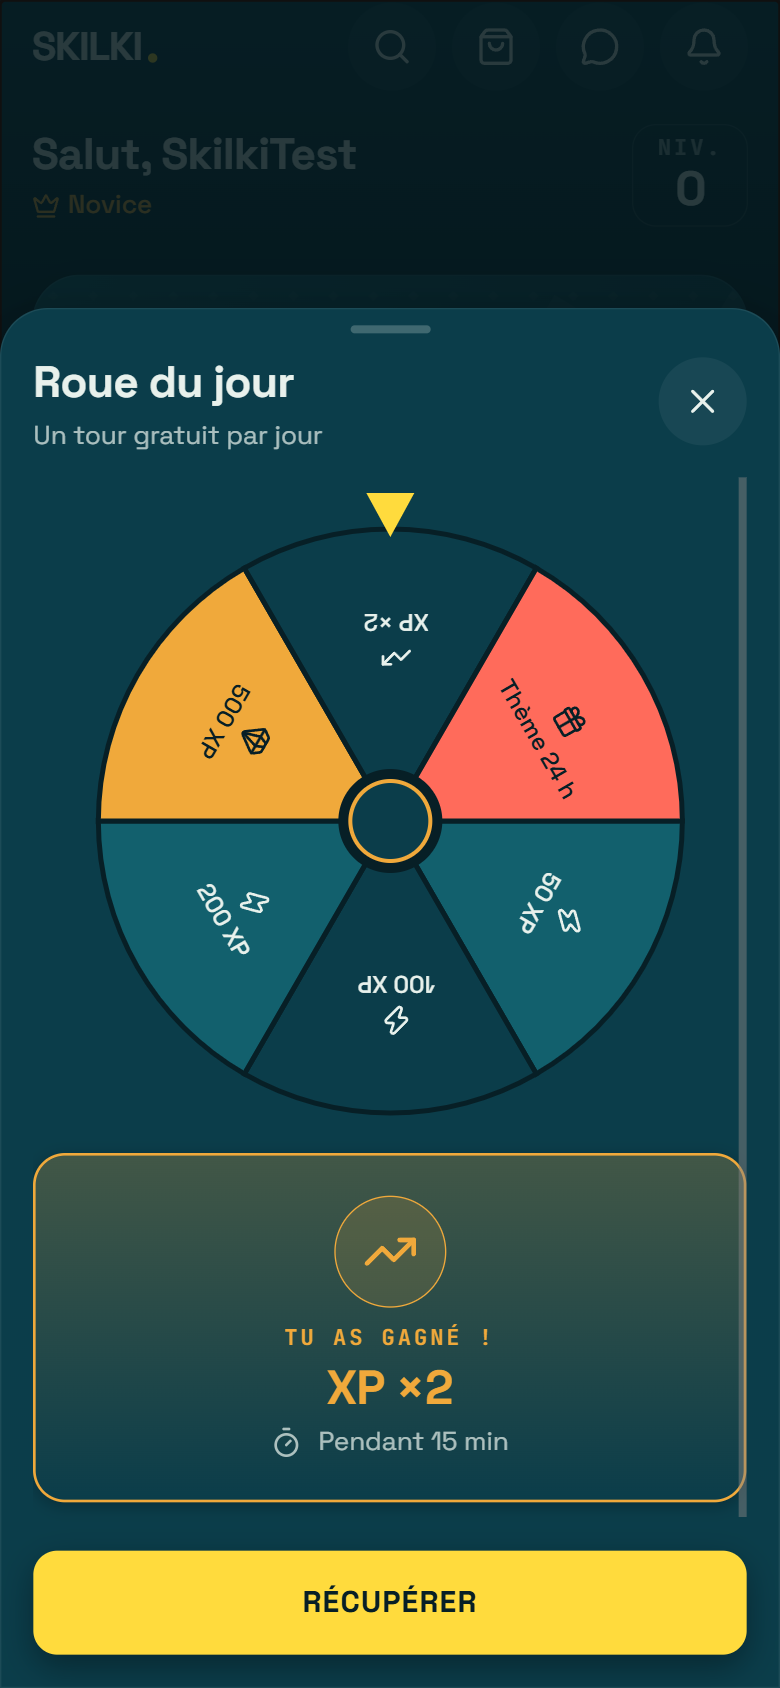
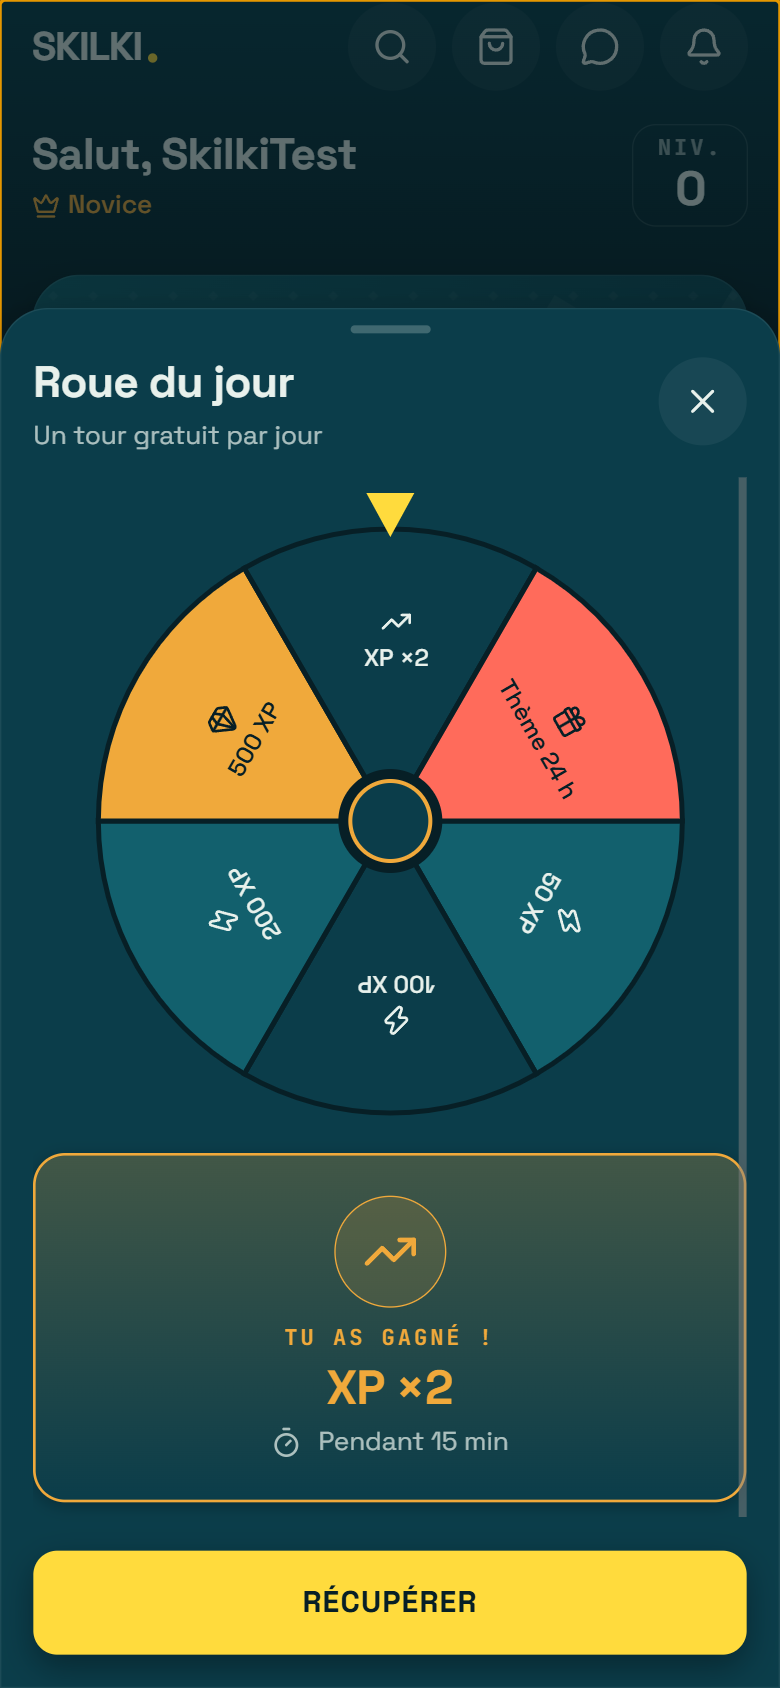
Lot E SKILKI : traductions des nouveaux textes, gain de la roue lisible
Les textes revus de la boutique et de la roue sont traduits dans les
9 autres langues. Le segment gagnant n'est plus tête en bas sous le pointeur.

diff --git a/frontend/utils/i18n.ts b/frontend/utils/i18n.ts
@@ -160,7 +160,7 @@ const translations: Translations = {
   'pilot.spin.spin': { fr: "Tourner la roue", en: "Spin the wheel", es: "Girar la ruleta", de: "Rad drehen", pt: "Girar a roleta", it: "Gira la ruota", ar: "أدر العجلة", ja: "回す", ko: "돌리기", zh: "转动转盘" },
   'pilot.spin.boost': { fr: "XP ×2", en: "XP ×2", es: "XP ×2", de: "XP ×2", pt: "XP ×2", it: "XP ×2", ar: "XP ×2", ja: "XP ×2", ko: "XP ×2", zh: "XP ×2" },
   'pilot.spin.theme': { fr: "Thème 24 h", en: "24h theme", es: "Tema 24 h", de: "Thema 24 Std.", pt: "Tema 24 h", it: "Tema 24 h", ar: "موضوع 24 س", ja: "テーマ24時間", ko: "테마 24시간", zh: "主题 24 小时" },
-  'pilot.spin.boost_minutes': { fr: "Pendant {n} min", en: "Boost active {n} min", es: "Boost activo {n} min", de: "Boost aktiv {n} Min.", pt: "Boost ativo {n} min", it: "Boost attivo {n} min", ar: "تعزيز نشط {n} د", ja: "ブースト {n}分", ko: "부스트 {n}분", zh: "加成 {n} 分钟" },
+  'pilot.spin.boost_minutes': { fr: "Pendant {n} min", en: "For {n} min", es: "Durante {n} min", de: "Für {n} Min.", pt: "Por {n} min", it: "Per {n} min", ar: "لمدة {n} د", ja: "{n}分間", ko: "{n}분 동안", zh: "持续 {n} 分钟" },
   'pilot.tournament.your_rank': { fr: "Ton rang", en: "Your rank", es: "Tu puesto", de: "Dein Rang", pt: "Sua posição", it: "Il tuo posto", ar: "ترتيبك", ja: "あなたの順位", ko: "내 순위", zh: "你的排名" },
   'pilot.tournament.duels': { fr: "{n}/{max} duels", en: "{n}/{max} duels", es: "{n}/{max} duelos", de: "{n}/{max} Duelle", pt: "{n}/{max} duelos", it: "{n}/{max} duelli", ar: "{n}/{max} مبارزات", ja: "{n}/{max} 対戦", ko: "{n}/{max} 대결", zh: "{n}/{max} 场对决" },
   'pilot.tournament.pts': { fr: "pts", en: "pts", es: "pts", de: "Pkt.", pt: "pts", it: "pt", ar: "نقطة", ja: "pt", ko: "점", zh: "分" },
@@ -176,20 +176,20 @@ const translations: Translations = {
   'pilot.spin.theme_won': { fr: "Thème offert 24 h", en: "Free theme for 24h", es: "Tema gratis 24 h", de: "Gratis-Thema 24 Std.", pt: "Tema grátis 24 h", it: "Tema gratis 24 h", ar: "موضوع مجاني 24 س", ja: "24時間無料テーマ", ko: "24시간 무료 테마", zh: "免费主题 24 小时" },
   'pilot.shop.coins_hint': { fr: "Les pièces débloquent des thèmes et des boosts.", en: "Coins unlock themes and boosts.", es: "Las monedas desbloquean temas y boosts.", de: "Münzen schalten Themen und Boosts frei.", pt: "As moedas desbloqueiam temas e boosts.", it: "Le monete sbloccano temi e boost.", ar: "العملات تفتح المواضيع والمعززات.", ja: "コインでテーマとブーストを解放できます。", ko: "코인으로 테마와 부스트를 열 수 있어요.", zh: "金币可解锁主题和加成。" },
   'pilot.shop.title': { fr: "Boutique", en: "Shop", es: "Tienda", de: "Shop", pt: "Loja", it: "Negozio", ar: "المتجر", ja: "ショップ", ko: "상점", zh: "商店" },
-  'pilot.shop.hero_title': { fr: "Progresse plus vite", en: "Boost your game", es: "Mejora tu juego", de: "Push dein Spiel", pt: "Turbine seu jogo", it: "Potenzia il tuo gioco", ar: "عزّز لعبك", ja: "プレイを強化", ko: "게임을 강화하세요", zh: "提升你的游戏" },
+  'pilot.shop.hero_title': { fr: "Progresse plus vite", en: "Level up faster", es: "Progresa más rápido", de: "Schneller vorankommen", pt: "Evolua mais rápido", it: "Progredisci più in fretta", ar: "تقدّم أسرع", ja: "もっと速く成長しよう", ko: "더 빠르게 성장하세요", zh: "更快进步" },
   'pilot.shop.hero_sub': { fr: "XP doublé, séries protégées, missions bonus.", en: "Double XP, protected streaks, bonus missions.", es: "XP doble, rachas protegidas, misiones extra.", de: "Doppelte XP, geschützte Serien, Bonusmissionen.", pt: "XP em dobro, sequências protegidas, missões bônus.", it: "XP doppia, serie protette, missioni bonus.", ar: "نقاط خبرة مضاعفة، سلاسل محمية، مهام إضافية.", ja: "XP2倍、連勝の保護、ボーナスミッション。", ko: "XP 2배, 연속 기록 보호, 보너스 미션.", zh: "双倍经验、连胜保护、奖励任务。" },
   'pilot.shop.section_coins': { fr: "Pièces", en: "Coins", es: "Monedas", de: "Münzen", pt: "Moedas", it: "Monete", ar: "عملات", ja: "コイン", ko: "코인", zh: "金币" },
   'pilot.shop.section_boosts': { fr: "Boosts", en: "Boosts", es: "Potenciadores", de: "Boosts", pt: "Impulsos", it: "Potenziamenti", ar: "معززات", ja: "ブースト", ko: "부스트", zh: "加成" },
   'pilot.shop.section_premium': { fr: "Premium", en: "Premium", es: "Premium", de: "Premium", pt: "Premium", it: "Premium", ar: "بريميوم", ja: "プレミアム", ko: "프리미엄", zh: "高级会员" },
   'pilot.shop.got_it': { fr: "Compris", en: "Got it", es: "Entendido", de: "Verstanden", pt: "Entendi", it: "Capito", ar: "حسنًا", ja: "了解", ko: "알겠어요", zh: "知道了" },
-  'pilot.shop.buy': { fr: "Bientôt", en: "Buy", es: "Comprar", de: "Kaufen", pt: "Comprar", it: "Acquista", ar: "شراء", ja: "購入", ko: "구매", zh: "购买" },
+  'pilot.shop.buy': { fr: "Bientôt", en: "Soon", es: "Pronto", de: "Bald", pt: "Em breve", it: "Presto", ar: "قريبًا", ja: "近日公開", ko: "곧 출시", zh: "即将推出" },
   'pilot.shop.subscribe': { fr: "S'abonner", en: "Subscribe", es: "Suscribirse", de: "Abonnieren", pt: "Assinar", it: "Abbonati", ar: "اشترك", ja: "登録する", ko: "구독하기", zh: "订阅" },
   'pilot.shop.purchase_title': { fr: "Bientôt disponible", en: "Coming soon", es: "Próximamente", de: "Bald verfügbar", pt: "Em breve", it: "Presto disponibile", ar: "قريبًا", ja: "近日公開", ko: "곧 출시", zh: "即将推出" },
   'pilot.shop.purchase_body': { fr: "Les achats dans l'app arrivent bientôt.\n\n{item} — {price}", en: "In-app purchases are coming soon.\n\n{item} — {price}", es: "Las compras en la app llegarán pronto.\n\n{item} — {price}", de: "In-App-Käufe kommen bald.\n\n{item} — {price}", pt: "As compras no app chegam em breve.\n\n{item} — {price}", it: "Gli acquisti in-app arriveranno presto.\n\n{item} — {price}", ar: "الشراء داخل التطبيق قادم قريبًا.\n\n{item} — {price}", ja: "アプリ内購入はまもなく開始します。\n\n{item} — {price}", ko: "인앱 구매가 곧 시작됩니다.\n\n{item} — {price}", zh: "应用内购买即将上线。\n\n{item} — {price}" },
   'pilot.shop.legal': { fr: "Les achats passent par l'App Store ou Google Play. Abonnement résiliable à tout moment.", en: "Purchases go through the App Store or Google Play. Cancel your subscription anytime.", es: "Las compras se realizan en App Store o Google Play. Suscripción cancelable en cualquier momento.", de: "Käufe laufen über den App Store oder Google Play. Abo jederzeit kündbar.", pt: "As compras passam pela App Store ou Google Play. Assinatura cancelável a qualquer momento.", it: "Gli acquisti passano dall'App Store o da Google Play. Abbonamento disdicibile in qualsiasi momento.", ar: "تتم المشتريات عبر App Store أو Google Play. يمكن إلغاء الاشتراك في أي وقت.", ja: "購入はApp StoreまたはGoogle Playで行われます。サブスクリプションはいつでも解約できます。", ko: "구매는 App Store 또는 Google Play를 통해 이루어집니다. 구독은 언제든 해지할 수 있습니다.", zh: "购买通过 App Store 或 Google Play 完成。订阅可随时取消。" },
   'pilot.shop.badge_popular': { fr: "Populaire", en: "Popular", es: "Popular", de: "Beliebt", pt: "Popular", it: "Popolare", ar: "شائع", ja: "人気", ko: "인기", zh: "热门" },
   'pilot.shop.badge_best': { fr: "Meilleure offre", en: "Best deal", es: "Mejor oferta", de: "Bestes Angebot", pt: "Melhor oferta", it: "Migliore offerta", ar: "أفضل عرض", ja: "お得", ko: "최고의 혜택", zh: "最划算" },
-  'pilot.shop.badge_value': { fr: "Sans engagement", en: "Best value", es: "La mejor opción", de: "Am vorteilhaftesten", pt: "Mais vantajoso", it: "Il più conveniente", ar: "الأكثر فائدة", ja: "いちばんお得", ko: "가장 유리함", zh: "最超值" },
+  'pilot.shop.badge_value': { fr: "Sans engagement", en: "No commitment", es: "Sin permanencia", de: "Jederzeit kündbar", pt: "Sem fidelidade", it: "Senza vincoli", ar: "بدون التزام", ja: "いつでも解約OK", ko: "약정 없음", zh: "随时取消" },
   'pilot.shop.coins_small_title': { fr: "500 pièces", en: "500 coins", es: "500 monedas", de: "500 Münzen", pt: "500 moedas", it: "500 monete", ar: "500 عملة", ja: "500コイン", ko: "500 코인", zh: "500 金币" },
   'pilot.shop.coins_small_desc': { fr: "Idéal pour débuter", en: "Perfect to start", es: "Ideal para empezar", de: "Ideal für den Einstieg", pt: "Ideal para começar", it: "Ideale per iniziare", ar: "مثالي للبداية", ja: "はじめにぴったり", ko: "시작하기에 딱 좋아요", zh: "入门首选" },
   'pilot.shop.coins_medium_title': { fr: "1 200 pièces", en: "1,200 coins", es: "1200 monedas", de: "1.200 Münzen", pt: "1.200 moedas", it: "1.200 monete", ar: "1200 عملة", ja: "1,200コイン", ko: "1,200 코인", zh: "1200 金币" },
@@ -199,9 +199,9 @@ const translations: Translations = {
   'pilot.shop.boost_xp_2x_title': { fr: "Boost XP ×2", en: "XP Boost ×2", es: "Potenciador XP ×2", de: "XP-Boost ×2", pt: "Impulso de XP ×2", it: "Boost XP ×2", ar: "معزز نقاط الخبرة ×2", ja: "XPブースト×2", ko: "XP 부스트 ×2", zh: "经验加成 ×2" },
   'pilot.shop.boost_xp_2x_desc': { fr: "Double ton XP pendant 24 h", en: "Double your XP for 24 h", es: "Duplica tu XP durante 24 h", de: "Verdopple deine XP für 24 Std.", pt: "Dobra seu XP por 24 h", it: "Raddoppia la tua XP per 24 h", ar: "ضاعف نقاط خبرتك لمدة 24 ساعة", ja: "24時間XPが2倍", ko: "24시간 동안 XP 2배", zh: "24 小时内经验翻倍" },
   'pilot.shop.boost_shield_title': { fr: "Bouclier de série", en: "Streak shield", es: "Escudo de racha", de: "Serienschutz", pt: "Escudo de sequência", it: "Scudo della serie", ar: "درع السلسلة", ja: "連勝シールド", ko: "연속 기록 보호막", zh: "连胜护盾" },
-  'pilot.shop.boost_shield_desc': { fr: "Garde ta série de jours même si tu rates un jour", en: "Protects your streak for 1 day", es: "Protege tu racha durante 1 día", de: "Schützt deine Serie 1 Tag lang", pt: "Protege sua sequência por 1 dia", it: "Protegge la tua serie per 1 giorno", ar: "يحمي سلسلتك ليوم واحد", ja: "1日間連勝を守る", ko: "1일 동안 연속 기록 보호", zh: "保护你的连胜 1 天" },
-  'pilot.shop.boost_reroll_title': { fr: "5 missions à remplacer", en: "Pack of 5 rerolls", es: "Pack de 5 cambios", de: "5er-Pack Neuwürfe", pt: "Pacote de 5 trocas", it: "Pack da 5 cambi", ar: "حزمة 5 تغييرات", ja: "引き直し5回パック", ko: "다시 뽑기 5회 팩", zh: "5 次刷新礼包" },
-  'pilot.shop.boost_reroll_desc': { fr: "Remplace une mission qui ne te plaît pas", en: "Swap 5 missions", es: "Cambia 5 misiones", de: "Tausche 5 Missionen", pt: "Troque 5 missões", it: "Cambia 5 missioni", ar: "غيّر 5 مهام", ja: "ミッションを5回変更", ko: "미션 5개 교체", zh: "更换 5 个任务" },
+  'pilot.shop.boost_shield_desc': { fr: "Garde ta série de jours même si tu rates un jour", en: "Keep your daily streak even if you miss a day", es: "Mantén tu racha aunque te saltes un día", de: "Behalte deine Serie, auch wenn du einen Tag verpasst", pt: "Mantenha sua sequência mesmo se faltar um dia", it: "Mantieni la serie anche se salti un giorno", ar: "حافظ على سلسلتك حتى لو فاتك يوم", ja: "1日休んでも連続記録をキープ", ko: "하루를 놓쳐도 연속 기록 유지", zh: "错过一天也能保住连续记录" },
+  'pilot.shop.boost_reroll_title': { fr: "5 missions à remplacer", en: "5 mission swaps", es: "5 misiones para cambiar", de: "5 Missionen zum Tauschen", pt: "5 missões para trocar", it: "5 missioni da cambiare", ar: "5 مهام للاستبدال", ja: "ミッション交換5回", ko: "미션 교체 5회", zh: "5 次任务更换" },
+  'pilot.shop.boost_reroll_desc': { fr: "Remplace une mission qui ne te plaît pas", en: "Swap a mission you don't like", es: "Cambia una misión que no te guste", de: "Tausche eine Mission, die dir nicht gefällt", pt: "Troque uma missão que você não curte", it: "Cambia una missione che non ti piace", ar: "استبدل مهمة لا تعجبك", ja: "気に入らないミッションを交換", ko: "마음에 들지 않는 미션을 교체하세요", zh: "更换不喜欢的任务" },
   'pilot.shop.premium_monthly_title': { fr: "SKILKI Premium", en: "SKILKI Premium", es: "SKILKI Premium", de: "SKILKI Premium", pt: "SKILKI Premium", it: "SKILKI Premium", ar: "SKILKI بريميوم", ja: "SKILKI プレミアム", ko: "SKILKI 프리미엄", zh: "SKILKI 高级会员" },
   'pilot.shop.premium_monthly_desc': { fr: "XP ×1,5, sans pub, missions bonus", en: "XP ×1.5, no ads, bonus missions", es: "XP ×1,5, sin anuncios, misiones extra", de: "XP ×1,5, werbefrei, Bonusmissionen", pt: "XP ×1,5, sem anúncios, missões bônus", it: "XP ×1,5, senza pubblicità, missioni bonus", ar: "نقاط خبرة ×1.5، بلا إعلانات، مهام إضافية", ja: "XP×1.5、広告なし、ボーナスミッション", ko: "XP ×1.5, 광고 없음, 보너스 미션", zh: "经验 ×1.5、无广告、奖励任务" },
   'pilot.results.title': { fr: "Fin du duel", en: "Duel over", es: "Fin del duelo", de: "Duell beendet", pt: "Fim do duelo", it: "Fine del duello", ar: "انتهت المبارزة", ja: "対戦終了", ko: "대결 종료", zh: "对决结束" },

diff --git a/frontend/components/SpinWheelModal.tsx b/frontend/components/SpinWheelModal.tsx
@@ -65,9 +65,9 @@ function labelCenter(i: number): { x: number; y: number; rotation: number } {
   const midDeg = (i + 0.5) * SEG_DEG - 90;
   const midRad = toRad(midDeg);
   const dist = R * 0.62;
-  // Rotate text so it reads from center outward; flip upside-down segments
-  let textRot = midDeg + 90;
-  if (textRot > 90 && textRot <= 270) textRot += 180;
+  // Texte droit quand le segment passe en haut : le gain se lit toujours à l'endroit sous le pointeur
+  // (pas de retournement : il mettait le segment gagnant tête en bas une fois la roue arrêtée)
+  const textRot = midDeg + 90;
   return {
     x: CX + dist * Math.cos(midRad),
     y: CY + dist * Math.sin(midRad),

diff --git a/docs/design/14-lot-e.md b/docs/design/14-lot-e.md
@@ -50,12 +50,15 @@
   - le gain s'appelle partout « XP ×2 », avec « Pendant 15 min » en détail ; il portait trois noms différents ;
   - le thème gagné s'affiche « Thème offert 24 h » ;
   - « Roue Quotidienne » devient « Roue quotidienne ».
+- Les nouveaux textes sont traduits dans les 9 autres langues (« Soon », « Pronto », etc.).
 - Espaces insécables dans « 24 h », « 15 min » et « 14 h 05 », pour qu'ils ne se coupent plus en fin de ligne.
 
 ## Mise en page
 
 - **Boutique en 320** : la colonne de texte ne faisait que 88 px, d'où des titres sur 2 lignes. Le prix et le bouton passent maintenant sous le texte, alignés avec lui.
 - **Tournoi** : les 4 chiffres passent en 2 × 2 sur toutes les largeurs. En une seule ligne, « 128 765 » et « Duels restants » débordaient, même en 390.
+
+- **Roue** : le segment gagnant s'affichait tête en bas sous le pointeur, à cause d'un retournement prévu pour la roue au repos. Retournement retiré : le gain se lit toujours à l'endroit.
 
 ## Tests
 
@@ -77,8 +80,6 @@
 ## Restant
 
 - **Backend** : les libellés de gain de `backend/spin.py` sont en français en dur (« Boost ×2 », « Thème 24h »). L'app affiche désormais ses propres libellés traduits pour le boost et le thème, mais le backend n'a pas été modifié.
-- **Traductions** : les nouvelles corrections de texte ne valent qu'en français. Les autres langues gardent leurs libellés (par exemple « Buy » au lieu de « Bientôt »).
-- **Roue** : les libellés des segments du bas sont tête en bêche. C'est la rotation d'origine, conservée.
 - « Duelo » reste visible dans l'administration (`admin.tsx`, `AdminUI.tsx`), qui est un outil interne : à traiter au Lot G si tu veux.
 
 ## Captures
